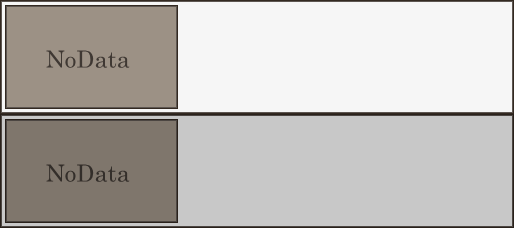
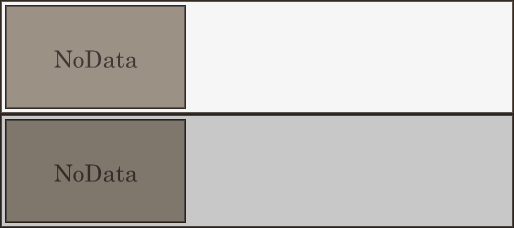
サムネイルの背景表示テスト

diff --git a/src/scene/saveload/SaveloadDraw.cpp b/src/scene/saveload/SaveloadDraw.cpp
@@ -42,6 +42,8 @@ void SaveloadDraw::loadImage()
         image_button_back);
     image_save_logo = LoadGraph("image/saveload/save_logo.png");
     image_load_logo = LoadGraph("image/saveload/load_logo.png");
+
+    image_backtest = LoadGraph("image/back/back_1.png");
 }
 //---------------------------------------------------------------------
 void SaveloadDraw::update()
@@ -87,29 +89,43 @@ void SaveloadDraw::drawSavedata()
 
         if (SaveData::getInstance()->isData(num)) {
             // text
-            int pos = SaveData::getInstance()->getScenarioPos(num);
-            std::string text = AllScenarioData::getInstance()->getText(pos);
+            int scenario_num = SaveData::getInstance()->getScenarioPos(num);
+            std::string text = AllScenarioData::getInstance()->getText(scenario_num);
+
             DrawFormatStringToHandle(
-                SaveloadData::getSavedataPosX(n) + 190,
-                SaveloadData::getSavedataPosY(n) + 15,
+                SaveloadData::getSavedataPosX(n) + 195,
+                SaveloadData::getSavedataPosY(n) + 17,
                 color_font,
                 font_time,
                 "%s",
                 text.substr(0, 38).c_str());
             DrawFormatStringToHandle(
-                SaveloadData::getSavedataPosX(n) + 190,
-                SaveloadData::getSavedataPosY(n) + 35,
+                SaveloadData::getSavedataPosX(n) + 195,
+                SaveloadData::getSavedataPosY(n) + 37,
                 color_font,
                 font_time,
                 "%s",
                 text.substr(38, 38).c_str());
             DrawFormatStringToHandle(
-                SaveloadData::getSavedataPosX(n) + 190,
-                SaveloadData::getSavedataPosY(n) + 55,
+                SaveloadData::getSavedataPosX(n) + 195,
+                SaveloadData::getSavedataPosY(n) + 57,
                 color_font,
                 font_time,
                 "%s",
                 text.substr(76, 38).c_str());
+
+            //----- thumbnail
+            SetDrawMode(DX_DRAWMODE_BILINEAR);
+            // background
+            int back_image = AllScenarioData::getInstance()->getBackimage(scenario_num);
+            DrawExtendGraph(
+                SaveloadData::getSavedataPosX(n) + 7,
+                SaveloadData::getSavedataPosY(n) + 7,
+                SaveloadData::getSavedataPosX(n) + 184,
+                SaveloadData::getSavedataPosY(n) + 107,
+                image_backtest,
+                TRUE);
+            SetDrawMode(DX_DRAWMODE_NEAREST);
         }
 
     }

diff --git a/src/scene/saveload/SaveloadDraw.h b/src/scene/saveload/SaveloadDraw.h
@@ -19,6 +19,7 @@ private:
     int font_time;
     int font_dialog;
     int color_font;
+    int image_backtest;
 
     void drawLogo();
     void drawSavedata();
